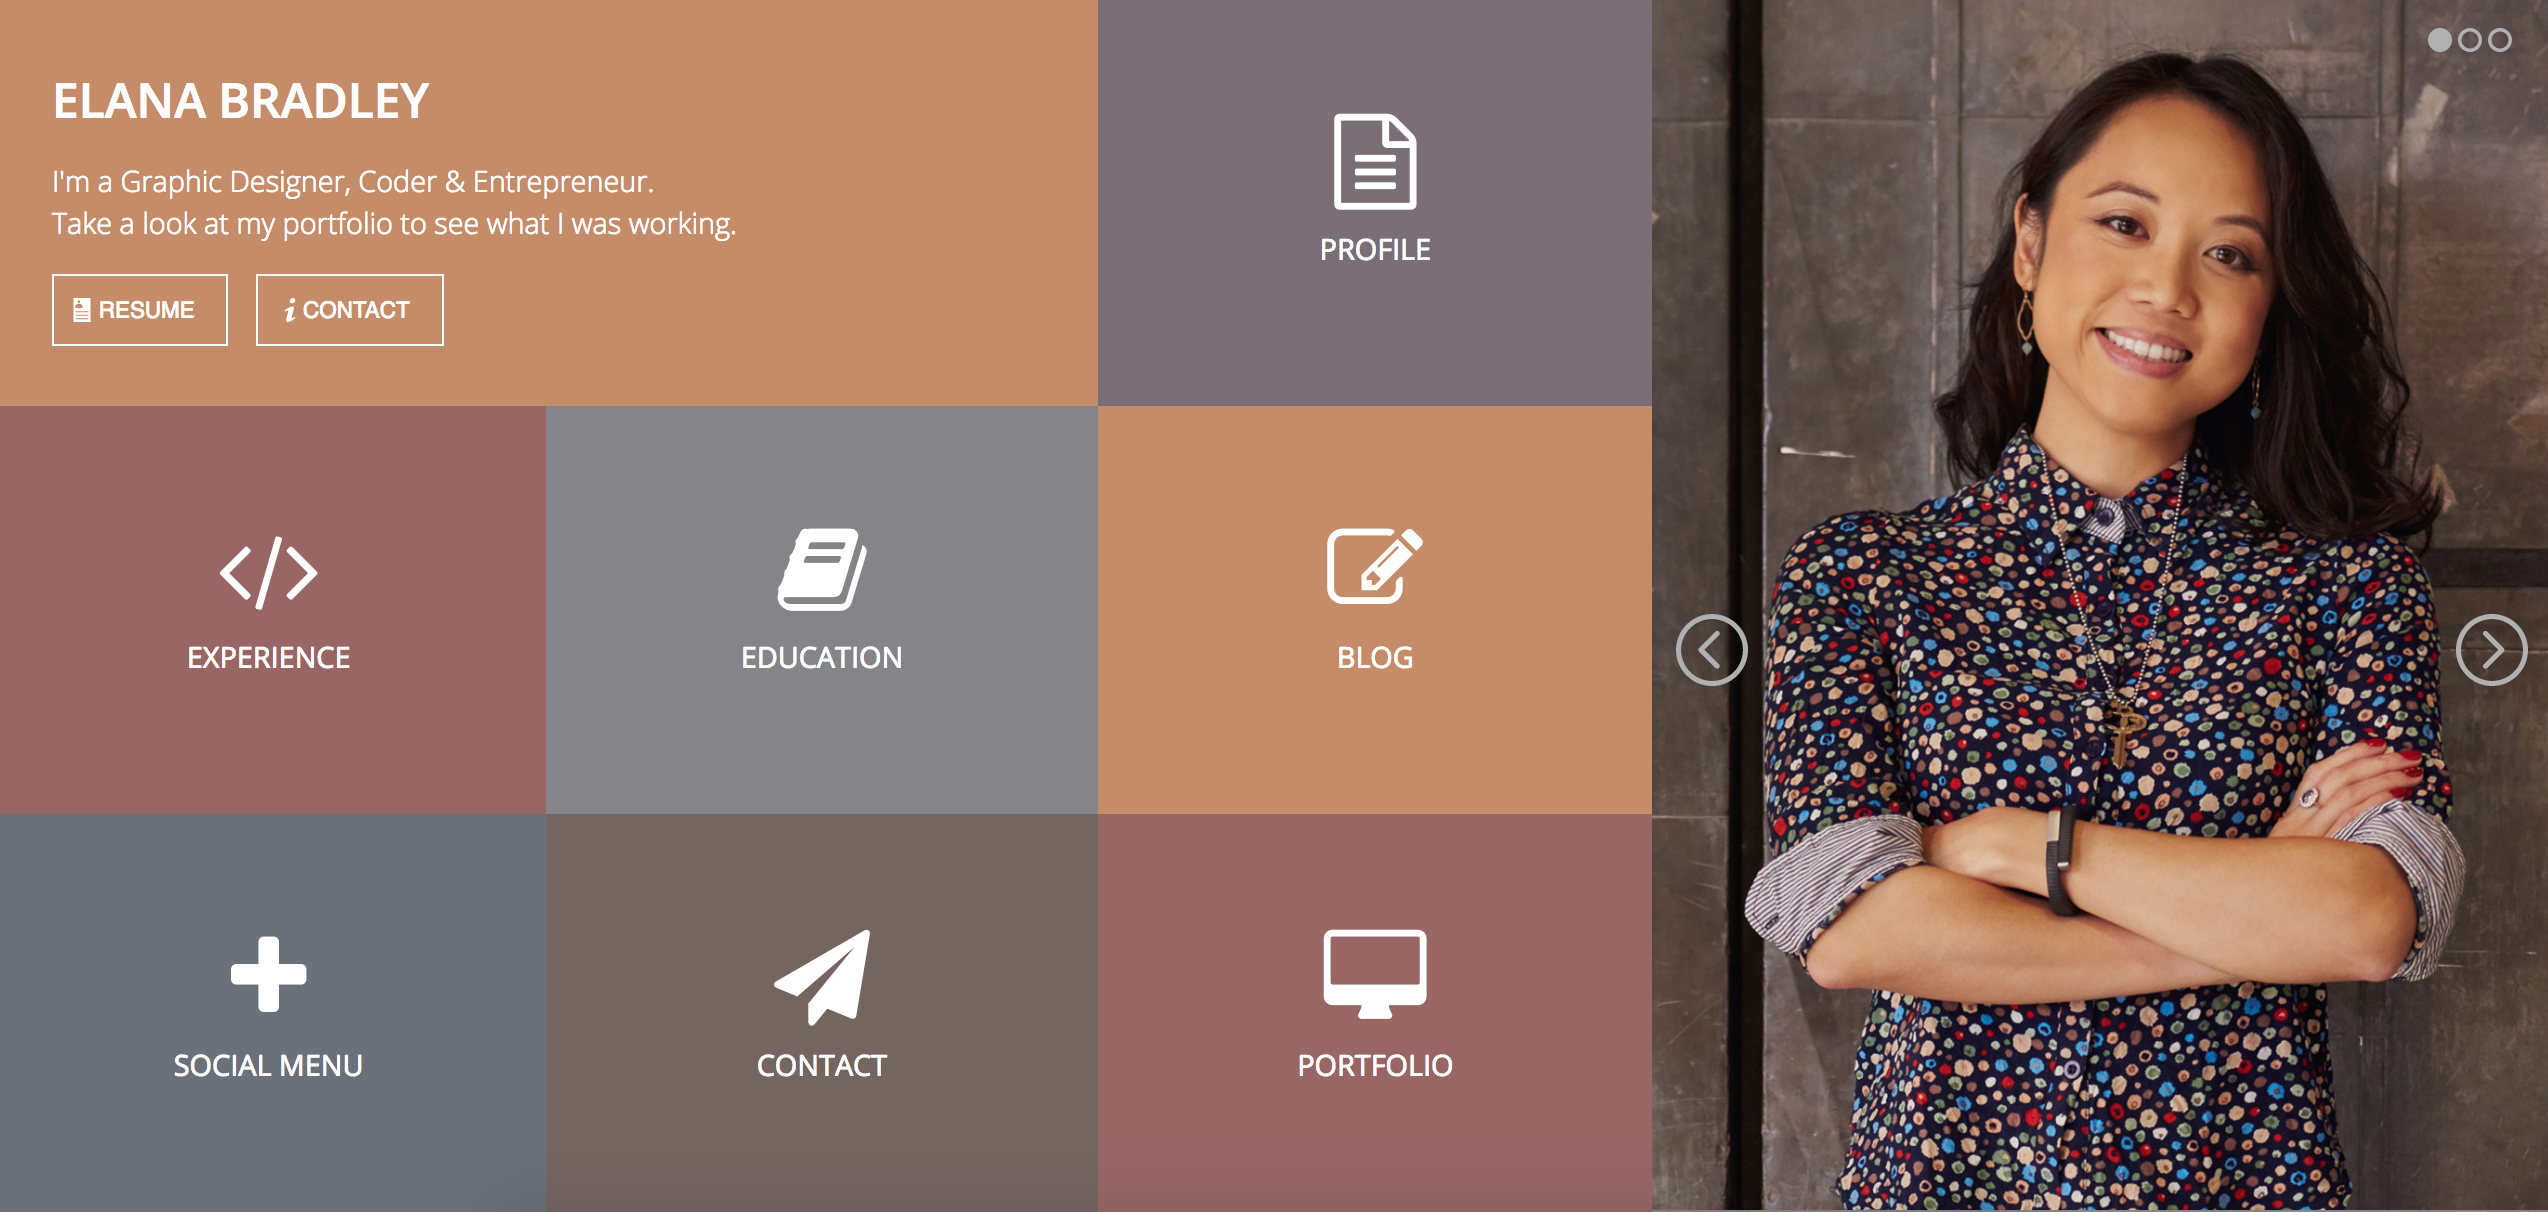
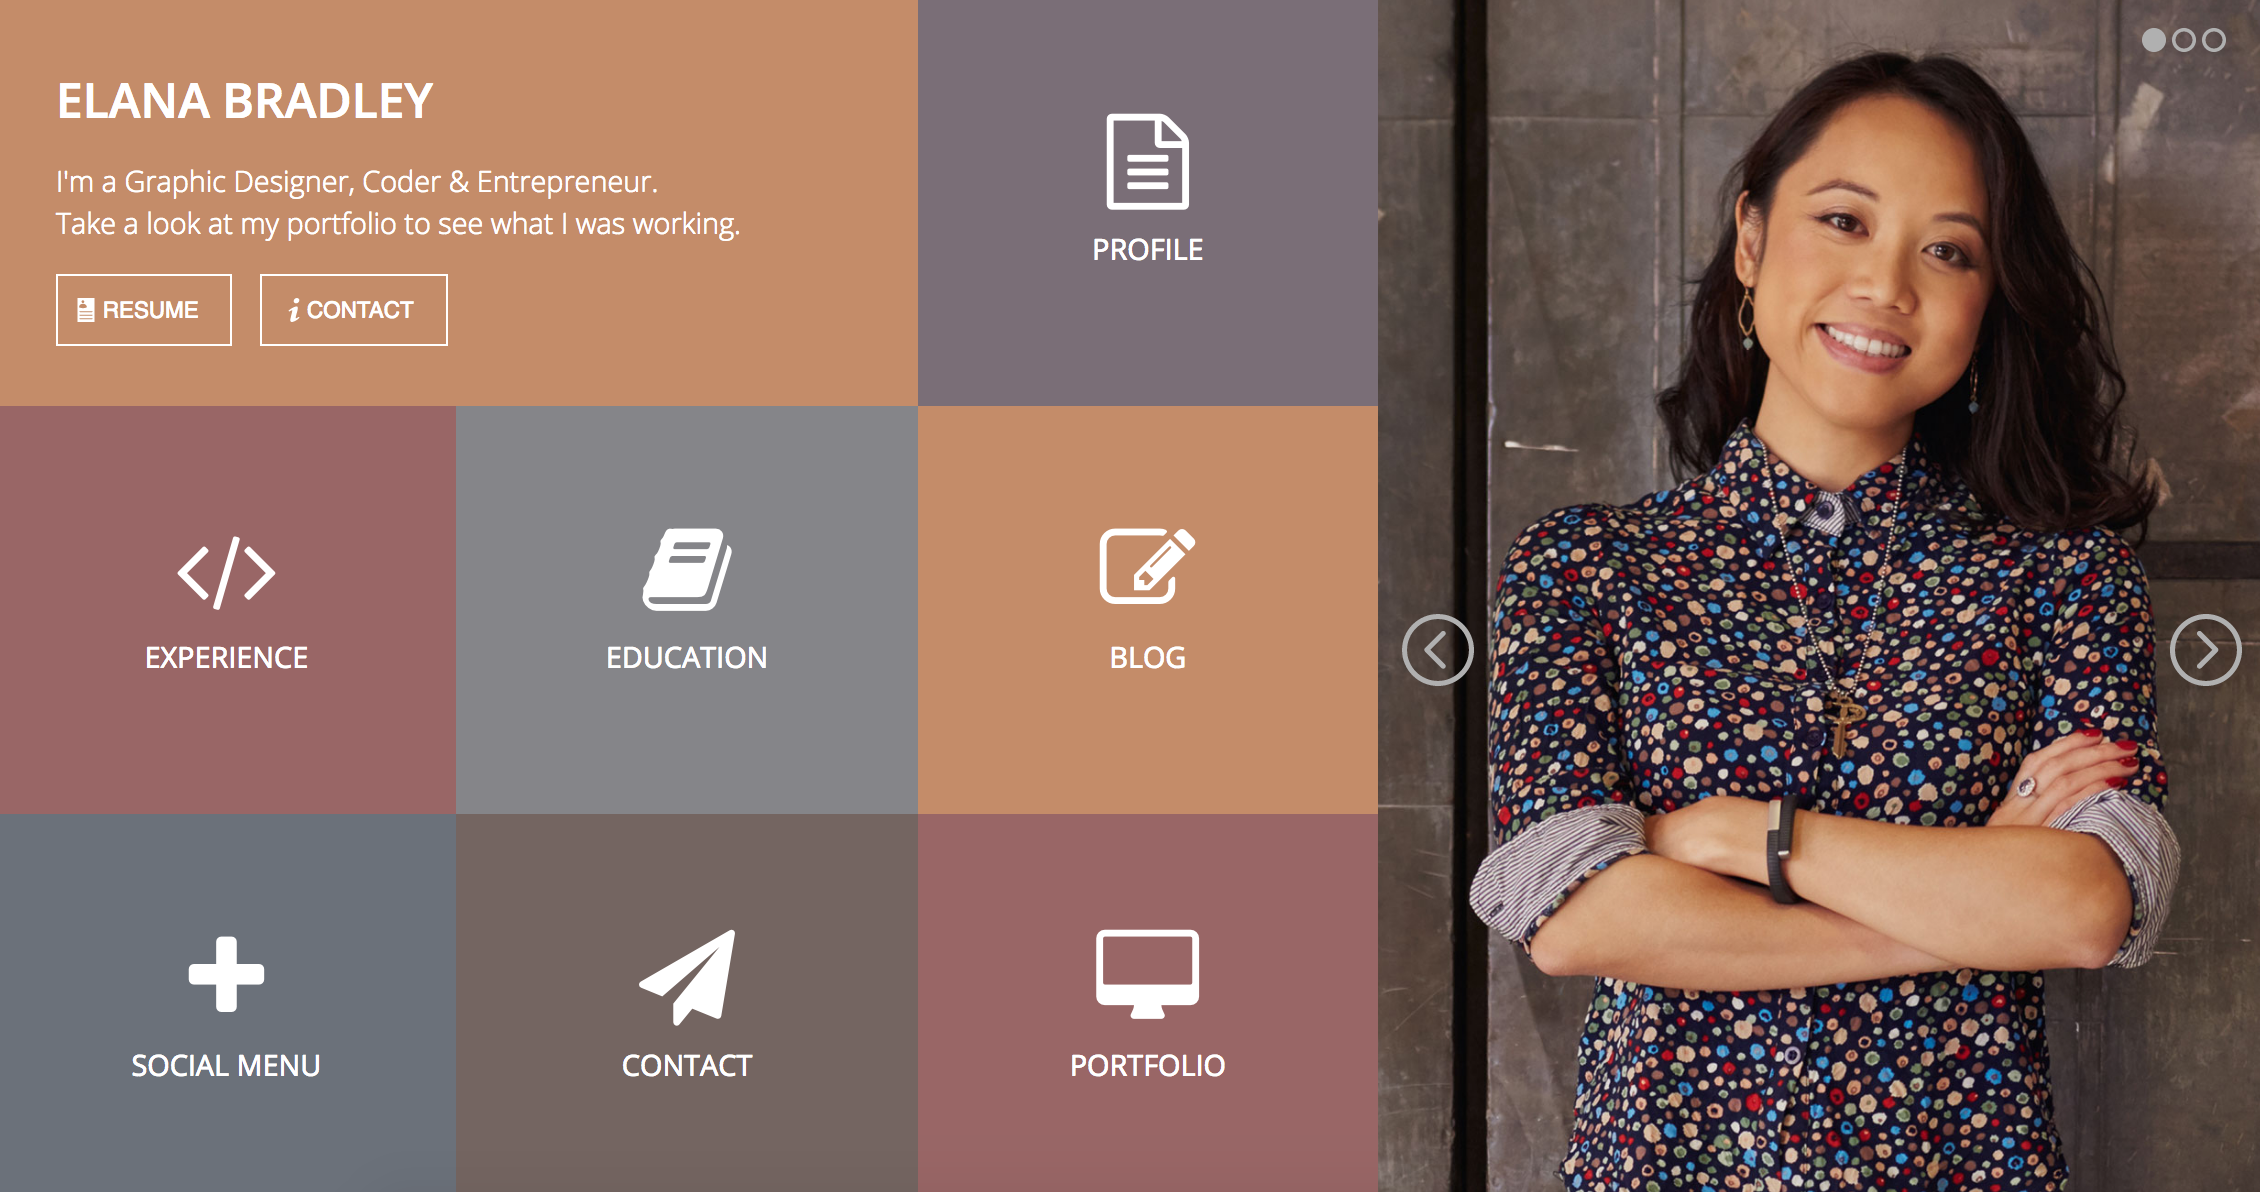
update readme image

diff --git a/style.css b/style.css
@@ -22,7 +22,7 @@ main {
   flex-grow: 5;
   flex-shrink: 10;
   height: 100%;
-  width: 65%;
+  width: 60%;
 }
 
 article {
@@ -123,7 +123,7 @@ button {
   flex-basis: 450px;
   height: 100vh;
   position: relative;
-  width: 35%;
+  width: 30%;
 }
 
 img {
